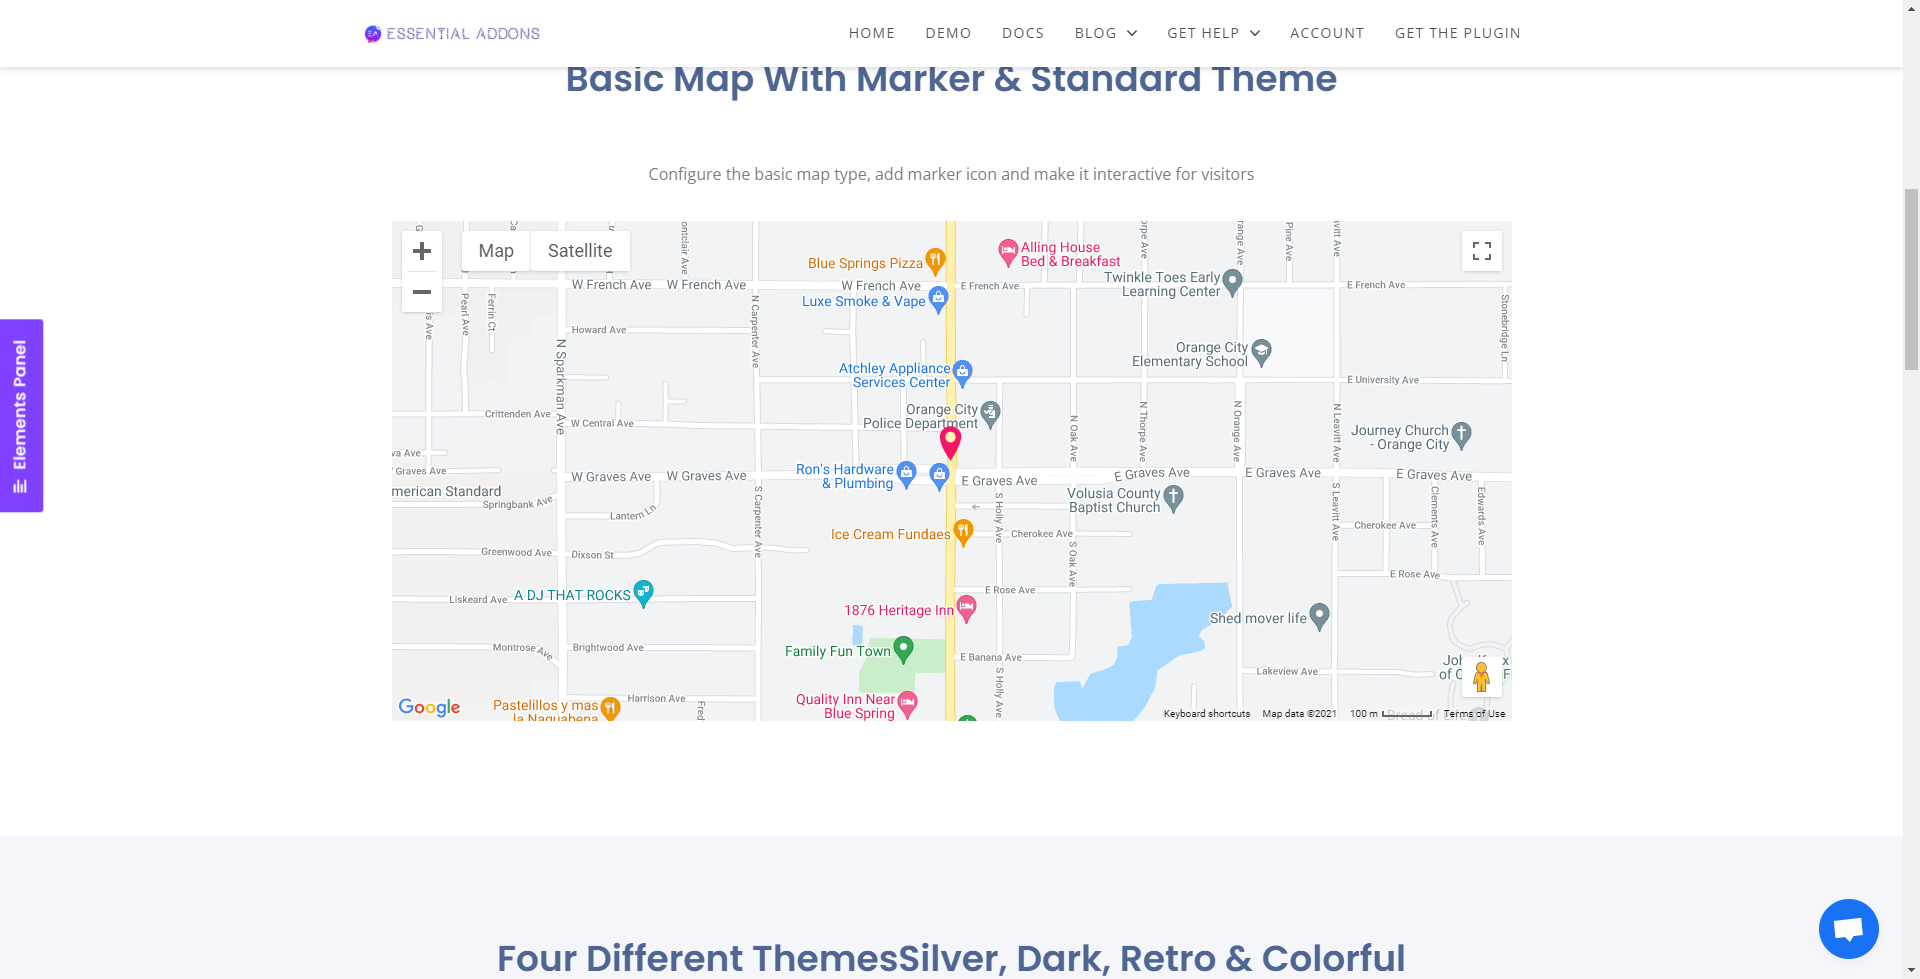
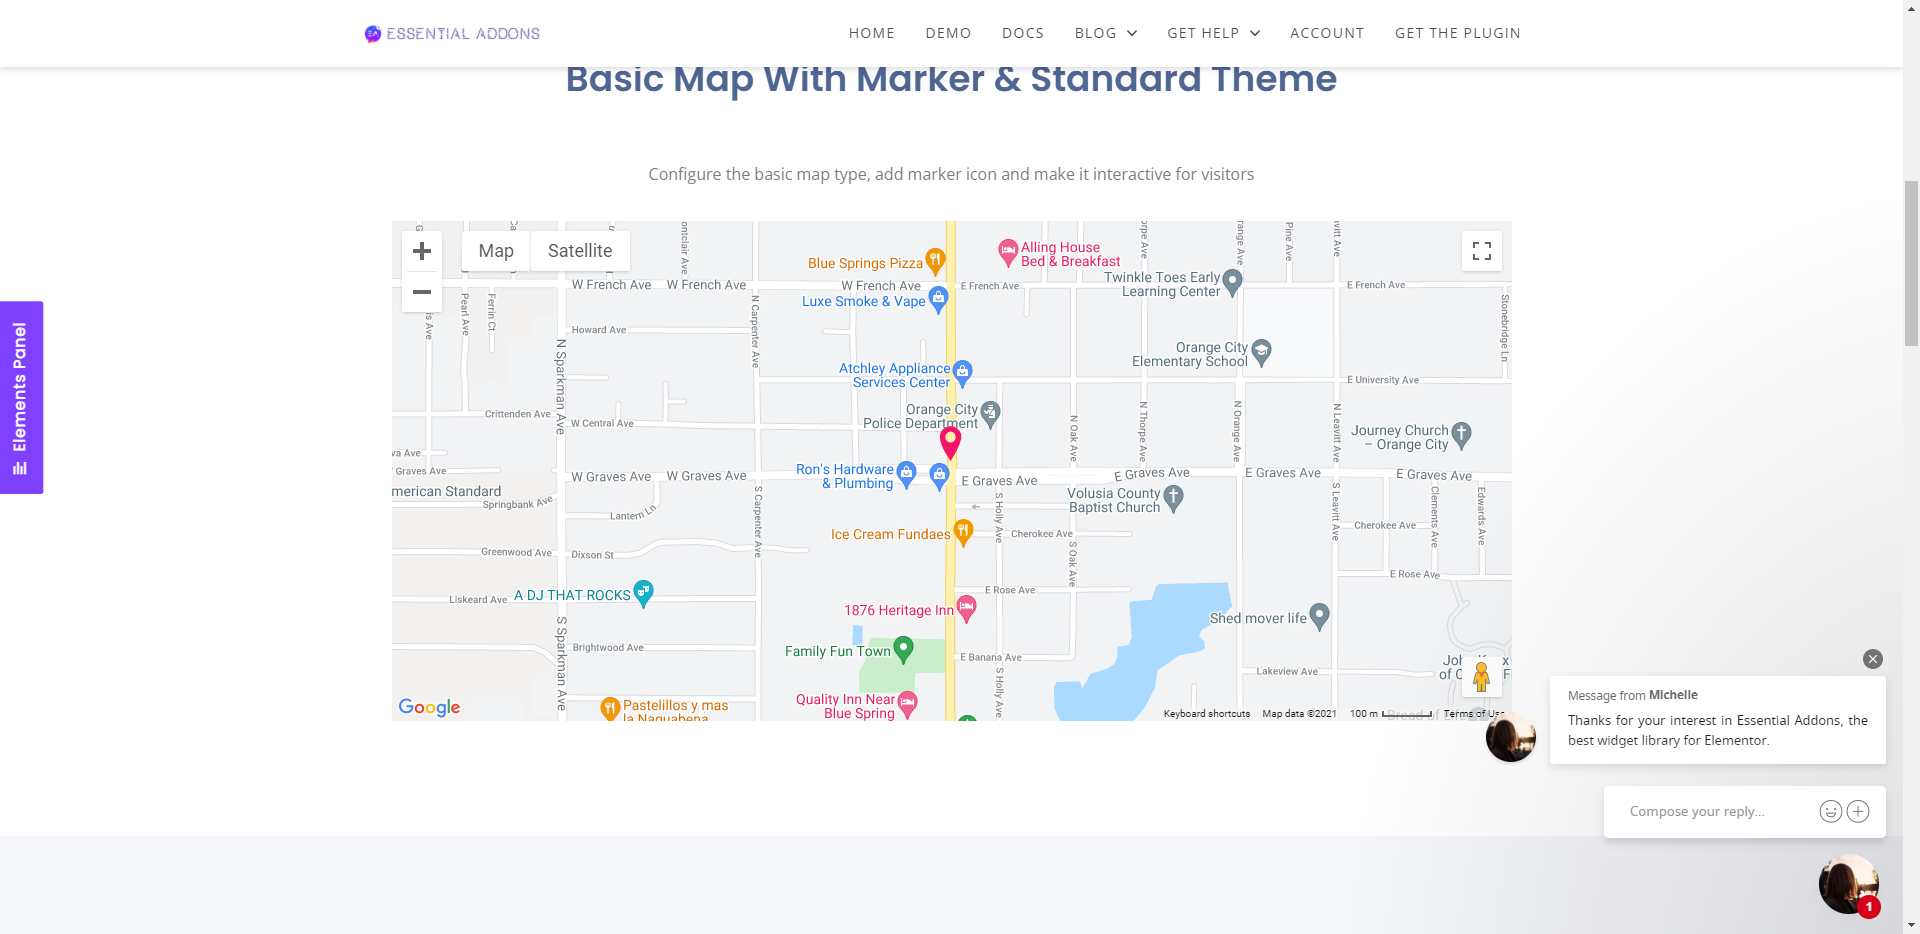
added interactive promo

diff --git a/pages/price_menu.py b/pages/price_menu.py
@@ -1,0 +1,97 @@
+from selenium.webdriver import ActionChains
+
+from utils.config import *
+
+
+class PriceMenu:
+    widget = '//*[@id="post-2953"]/div/div/div/div/section[1]/div[4]/div/div[2]/div/div/section' \
+             '/div/div/div[2]/div/div/div[1]/div/h2'
+    widget_name = 'Price Menu'
+    doc_link = '//*[@id="post-2953"]/div/div/div/div/section[1]/div[4]/div/div[2]/div/div/section' \
+               '/div/div/div[2]/div/div/div[3]/div/div/a/span/span'
+    doc_name = "PRICE MENU"
+
+    menu_img = (By.XPATH, f'//*[@id="post-2953"]/div/div/div/div/section[3]/div/div/div[1]/div/div/div[1]/div/div/img')
+    menu_title = (By.XPATH, f'//*[@id="post-2953"]/div/div/div/div/section[3]/div/div/div[1]/div/div/div[2]/div/h3')
+    menu_title_text = "Breakfast Menu"
+
+    menu_list_1_name = (By.XPATH, f'//*[@id="post-2953"]/div/div/div/div/section[3]/div/div/div[1]/div/div'
+                             f'/div[3]/div/div/div/div[1]/div/div/div/h4/span')
+    menu_list_1_name_text = "Fig And Lemon Cake"
+    menu_list_1_price = (By.XPATH, f'//*[@id="post-2953"]/div/div/div/div/section[3]/div/div/div[1]/div/div/div[3]'
+                                   f'/div/div/div/div[1]/div/div/div/span[2]/span')
+    menu_list_1_price_text = "$10"
+
+    menu_list_2_name = (By.XPATH, f'//*[@id="post-2953"]/div/div/div/div/section[3]/div/div/div[1]/div/div/div[3]'
+                                  f'/div/div/div/div[2]/div/div/div/h4/span')
+    menu_list_2_name_text = "Heirloom Tomato"
+    menu_list_2_price = (By.XPATH, f'//*[@id="post-2953"]/div/div/div/div/section[3]/div/div/div[1]/div/div/div[3]'
+                                   f'/div/div/div/div[2]/div/div/div/span[2]/span')
+    menu_list_2_price_text = "$25"
+
+    menu_list_3_name = (By.XPATH, f'//*[@id="post-2953"]/div/div/div/div/section[3]/div/div/div[1]/div/div/div[3]'
+                                  f'/div/div/div/div[3]/div/div/div/h4/span')
+    menu_list_3_name_text = "Italian Spaghetti"
+    menu_list_3_price = (By.XPATH, f'//*[@id="post-2953"]/div/div/div/div/section[3]/div/div/div[1]/div/div/div[3]'
+                                   f'/div/div/div/div[3]/div/div/div/span[2]/span')
+    menu_list_3_price_text = "$28"
+
+    menu_list_4_name = (By.XPATH, f'//*[@id="post-2953"]/div/div/div/div/section[3]/div/div/div[1]/div/div/div[3]'
+                                  f'/div/div/div/div[4]/div/div/div/h4/span')
+    menu_list_4_name_text = "Calamari Diavolo"
+    menu_list_4_price = (By.XPATH, f'//*[@id="post-2953"]/div/div/div/div/section[3]/div/div/div[1]/div/div/div[3]'
+                                   f'/div/div/div/div[4]/div/div/div/span[2]/span')
+    menu_list_4_price_text = "$10"
+
+    menu_list_5_name = (By.XPATH, f'//*[@id="post-2953"]/div/div/div/div/section[3]/div/div/div[1]/div/div/div[3]'
+                                  f'/div/div/div/div[5]/div/div/div/h4/span')
+    menu_list_5_name_text = "Home Made Bread"
+    menu_list_5_price = (By.XPATH, f'//*[@id="post-2953"]/div/div/div/div/section[3]/div/div/div[1]/div/div/div[3]'
+                                   f'/div/div/div/div[5]/div/div/div/span[2]/span')
+    menu_list_5_price_text = "$8"
+
+    def __init__(self, browser):
+        self.browser = browser
+
+    def load(self):
+        self.browser.get(price_menu)
+
+    def testcase(self):
+        c = CheckText(self.browser)
+        with soft_assertions():
+            c.check_widget_name(self.widget, self.widget_name)
+            if check_doc:
+                c.check_doc(self.doc_link, self.doc_name)
+
+            self.browser.execute_script("window.scrollTo(0, 965)")
+
+            if self.browser.find_element(*self.menu_img).is_displayed():
+                assert_that(display).is_equal_to(1)
+            else:
+                assert_that(display).is_equal_to("Image is not visible")
+
+            assert_that(self.browser.find_element(*self.menu_list_1_name).text).\
+                is_equal_to(self.menu_list_1_name_text)
+            assert_that(self.browser.find_element(*self.menu_list_1_price).text).\
+                is_equal_to(self.menu_list_1_price_text)
+
+            assert_that(self.browser.find_element(*self.menu_list_2_name).text).\
+                is_equal_to(self.menu_list_2_name_text)
+            assert_that(self.browser.find_element(*self.menu_list_2_price).text).\
+                is_equal_to(self.menu_list_2_price_text)
+
+            assert_that(self.browser.find_element(*self.menu_list_3_name).text).\
+                is_equal_to(self.menu_list_3_name_text)
+            assert_that(self.browser.find_element(*self.menu_list_3_price).text).\
+                is_equal_to(self.menu_list_3_price_text)
+
+            assert_that(self.browser.find_element(*self.menu_list_4_name).text).\
+                is_equal_to(self.menu_list_4_name_text)
+            assert_that(self.browser.find_element(*self.menu_list_4_price).text).\
+                is_equal_to(self.menu_list_4_price_text)
+
+            assert_that(self.browser.find_element(*self.menu_list_5_name).text).\
+                is_equal_to(self.menu_list_5_name_text)
+            assert_that(self.browser.find_element(*self.menu_list_5_price).text).\
+                is_equal_to(self.menu_list_5_price_text)
+

diff --git a/test/test_all_widgets.py b/test/test_all_widgets.py
@@ -16,6 +16,7 @@ from pages.event_calendar import EventCalendar
 from pages.feature_list import FeatureList
 from pages.flip_box import FlipBox
 from pages.info_box import InfoBox
+from pages.interactive_promo import InteractivePromo
 from pages.logo_carousel import LogoCarousel
 from pages.offcanvas_content import OffCanvas
 from pages.post_block import PostBlock
@@ -23,6 +24,7 @@ from pages.post_carousel import PostCarousel
 from pages.post_grid import PostGrid
 from pages.post_list import PostList
 from pages.post_timeline import PostTimeline
+from pages.price_menu import PriceMenu
 from pages.pricing_table import PricingTable
 from pages.protected_content import ProtectedContent
 from pages.simple_menu import SimpleMenu
@@ -168,72 +170,86 @@ def test_static_product(browser):
 # DYNAMIC CONTENT ELEMENTS
 # ------------------------------------------------
 
-# def test_advanced_data_table(browser):
-#     adt = AdvancedDataTable(browser)
-#     adt.load()
-#     adt.testcase()
+def test_advanced_data_table(browser):
+    adt = AdvancedDataTable(browser)
+    adt.load()
+    adt.testcase()
 
-# def test_post_block(browser):
-#     pb = PostBlock(browser)
-#     pb.load()
-#     pb.testcase()
+def test_post_block(browser):
+    pb = PostBlock(browser)
+    pb.load()
+    pb.testcase()
 
-# def test_post_timeline(browser):
-#     ptl = PostTimeline(browser)
-#     ptl.load()
-#     ptl.testcase()
+def test_post_timeline(browser):
+    ptl = PostTimeline(browser)
+    ptl.load()
+    ptl.testcase()
 
-# def test_smart_post_list(browser):
-#     spl = PostList(browser)
-#     spl.load()
-#     spl.testcase()
+def test_smart_post_list(browser):
+    spl = PostList(browser)
+    spl.load()
+    spl.testcase()
 
-# def test_google_map(browser):
-#     gm = AdvancedGoogleMap(browser)
-#     gm.load()
-#     gm.testcase()
+def test_google_map(browser):
+    gm = AdvancedGoogleMap(browser)
+    gm.load()
+    gm.testcase()
 
-# def test_content_ticker(browser):
-#     ct = ContentTicker(browser)
-#     ct.load()
-#     ct.testcase()
+def test_content_ticker(browser):
+    ct = ContentTicker(browser)
+    ct.load()
+    ct.testcase()
 
-# def test_content_timeline(browser):
-#     ct = ContentTimeline(browser)
-#     ct.load()
-#     ct.testcase()
+def test_content_timeline(browser):
+    ct = ContentTimeline(browser)
+    ct.load()
+    ct.testcase()
 
-# def test_dynamic_gallery(browser):
-#     dg = DynamicGallery(browser)
-#     dg.load()
-#     dg.testcase()
+def test_dynamic_gallery(browser):
+    dg = DynamicGallery(browser)
+    dg.load()
+    dg.testcase()
 
-# def test_post_grid(browser):
-#     pg = PostGrid(browser)
-#     pg.load()
-#     pg.testcase()
+def test_post_grid(browser):
+    pg = PostGrid(browser)
+    pg.load()
+    pg.testcase()
 
-# def test_data_table(browser):
-#     dt = DataTable(browser)
-#     dt.load()
-#     dt.testcase()
+def test_data_table(browser):
+    dt = DataTable(browser)
+    dt.load()
+    dt.testcase()
 
-# def test_post_carousel(browser):
-#     pc = PostCarousel(browser)
-#     pc.load()
-#     pc.testcase()
+def test_post_carousel(browser):
+    pc = PostCarousel(browser)
+    pc.load()
+    pc.testcase()
 
 # ------------------------------------------------
 # MARKETING ELEMENTS
 # ------------------------------------------------
 
-# def test_pricing_table(browser):
-#     pt = PricingTable(browser)
-#     pt.load()
-#     pt.testcase()
+def test_pricing_table(browser):
+    pt = PricingTable(browser)
+    pt.load()
+    pt.testcase()
 
 def test_call_to_action(browser):
     cta = CallToAction(browser)
     cta.load()
     cta.testcase()
+
+def test_price_menu(browser):
+    pm = PriceMenu(browser)
+    pm.load()
+    pm.testcase()
+
+# ------------------------------------------------
+# CREATIVE ELEMENTS
+# ------------------------------------------------
+
+def test_interactive_promo(browser):
+    ip = InteractivePromo(browser)
+    ip.load()
+    ip.testcase()
 

diff --git a/pages/advanced_menu.py b/pages/advanced_menu.py
@@ -89,7 +89,7 @@ class AdvancedMenu:
             assert_that(self.browser.find_element(*self.h_blog).text).is_equal_to(self.h_blog_text)
             assert_that(self.browser.find_element(*self.h_contact).text).is_equal_to(self.h_contact_text)
             self.browser.find_element(*self.h_home).click()
-            c.check_title("Essential Addons for Elementor - Ultimate Elements Library for Elementor")
+            c.check_title("💬1 - Essential Addons for Elementor - Ultimate Elements Library for Elementor")
             self.browser.back()
             time.sleep(1)
             self.browser.execute_script("window.scrollTo(0, 934)")
@@ -120,7 +120,7 @@ class AdvancedMenu:
                 move_to_element(h_ele_calltoaction).move_to_element(h_ele_cf7).move_to_element(h_ele_ticker).perform()
 
             cursor.move_to_element(h_ele).move_to_element(h_ele_accor).click().perform()
-            c.check_title("Advanced Accordion for Elementor | Essential Addons for Elementor")
+            c.check_title("💬1 - Advanced Accordion for Elementor | Essential Addons for Elementor")
             self.browser.back()
             time.sleep(1)
             h_sup = self.browser.find_element(*self.h_support)
@@ -138,7 +138,7 @@ class AdvancedMenu:
             assert_that(self.browser.find_element(*self.v_blog).text).is_equal_to(self.v_blog_text)
             assert_that(self.browser.find_element(*self.v_contact).text).is_equal_to(self.v_contact_text)
             self.browser.find_element(*self.v_home).click()
-            c.check_title("Essential Addons for Elementor - Ultimate Elements Library for Elementor")
+            c.check_title("💬1 - Essential Addons for Elementor - Ultimate Elements Library for Elementor")
             self.browser.back()
             time.sleep(1)
             self.browser.execute_script("window.scrollTo(0, 3158)")
@@ -175,7 +175,7 @@ class AdvancedMenu:
 
             cursor.move_to_element(v_ele_accor).click().perform()
             time.sleep(.5)
-            c.check_title("Advanced Accordion for Elementor | Essential Addons for Elementor")
+            c.check_title("💬1 - Advanced Accordion for Elementor | Essential Addons for Elementor")
             self.browser.back()
             time.sleep(1)
             v_sup = self.browser.find_element(*self.v_support)

diff --git a/pages/interactive_promo.py b/pages/interactive_promo.py
@@ -1,0 +1,47 @@
+from selenium.webdriver import ActionChains
+
+from utils.config import *
+
+
+class InteractivePromo:
+    widget = '//*[@id="post-19"]/div/div/div/div/section[1]/div[4]/div/div[2]/div/div/section' \
+             '/div/div/div[2]/div/div/div[1]/div/h2'
+    widget_name = 'Interactive Promo'
+    doc_link = '//*[@id="post-19"]/div/div/div/div/section[1]/div[4]/div/div[2]/div/div/section' \
+               '/div/div/div[2]/div/div/div[3]/div/div/a/span/span'
+    doc_name = "INTERACTIVE PROMO"
+
+    promo_1 = (By.XPATH, f'//*[@id="eael-promo-696e3946"]/figure/figcaption/a')
+    promo_1_img = (By.XPATH, f'//*[@id="eael-promo-696e3946"]/figure/img')
+    promo_1_title = (By.XPATH, f'//*[@id="eael-promo-696e3946"]/figure/figcaption/div/h2')
+    promo_1_title_text = "It’S A Pleasure"
+    promo_1_des = (By.XPATH, f'//*[@id="eael-promo-696e3946"]/figure/figcaption/div/p')
+    promo_1_des_text = "We Have Only One Earth To Dwell, Don’T Destroy The Nature And Don’T Make It Hell."
+
+    def __init__(self, browser):
+        self.browser = browser
+
+    def load(self):
+        self.browser.get(interactive_promo)
+
+    def testcase(self):
+        c = CheckText(self.browser)
+        with soft_assertions():
+            c.check_widget_name(self.widget, self.widget_name)
+            if check_doc:
+                c.check_doc(self.doc_link, self.doc_name)
+
+            self.browser.execute_script("window.scrollTo(0, 905)")
+            cursor = ActionChains(self.browser)
+            promo = self.browser.find_element(*self.promo_1)
+
+            if self.browser.find_element(*self.promo_1_img).is_displayed():
+                assert_that(display).is_equal_to(1)
+            else:
+                assert_that(display).is_equal_to("Image not visible")
+            assert_that(self.browser.find_element(*self.promo_1_title).text).is_equal_to(self.promo_1_title_text)
+            cursor.move_to_element(promo).perform()
+            if self.browser.find_element(*self.promo_1_des).is_displayed():
+                assert_that(self.browser.find_element(*self.promo_1_des).text).is_equal_to(self.promo_1_des_text)
+            else:
+                assert_that(display).is_equal_to("Description not visible")

diff --git a/pages/simple_menu.py b/pages/simple_menu.py
@@ -81,7 +81,7 @@ class SimpleMenu:
             move_to_element(h_blog).move_to_element(h_support).perform()
 
         cursor.move_to_element(h_ele_ele).move_to_element(h_ele_woo_slider).click().perform()
-        c.check_title('Woo Product Slider | Essential Addons for Elementor')
+        c.check_title('💬1 - Woo Product Slider | Essential Addons for Elementor')
         self.browser.back()
 
         self.browser.execute_script("window.scrollTo(0, 3971)")
@@ -113,5 +113,5 @@ class SimpleMenu:
             move_to_element(v_ele_blog).move_to_element(v_ele_contact_us).perform()
 
         cursor.move_to_element(v_ele_accordion).click().perform()
-        c.check_title('Advanced Accordion for Elementor | Essential Addons for Elementor')
+        c.check_title('💬1 - Advanced Accordion for Elementor | Essential Addons for Elementor')
         self.browser.back()

diff --git a/utils/config.py b/utils/config.py
@@ -43,6 +43,8 @@ data_table = base_url + "table/"
 post_carousel = base_url + "post-carousel/"
 pricing_table = base_url + "pricing-table/"
 call_to_action = base_url + "call-to-action/"
+price_menu = base_url + "price-menu/"
+interactive_promo = base_url + "interactive-promo/"
 
 check_doc = False
 # check_doc = True
